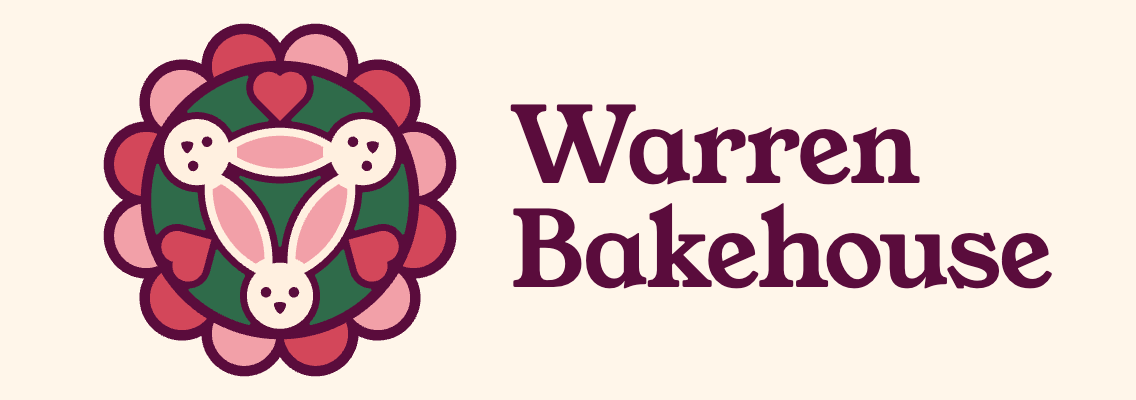
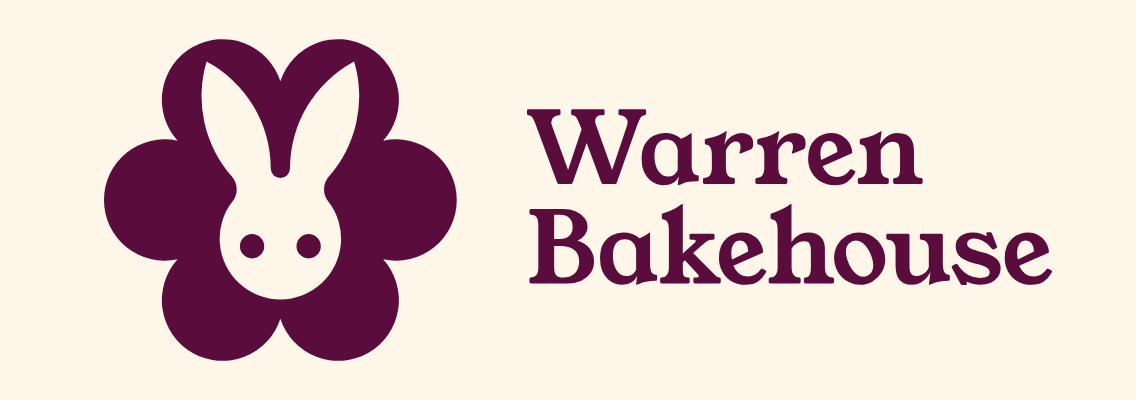
Bryce's page: Warren Bakehouse's approved mark
The rose-window emblem is replaced by the one rabbit inside the flower, logo
and mark pictures, and the direction line that described the old emblem.

Changed region(s): [[0.0924, 0.06, 0.4005, 0.96], [0.4313, 0.51, 0.9243, 0.72], [0.4313, 0.24, 0.8319, 0.48]]

diff --git a/preview/services/brand/bunny-open/index.html b/preview/services/brand/bunny-open/index.html
@@ -18,7 +18,7 @@ h2{font-size:20px;margin:0}.p{font-size:clamp(56px,8vw,112px);line-height:1;font
 @media(max-width:640px){.top{grid-template-columns:1fr}.g{grid-template-columns:1fr}.t{aspect-ratio:3/1}.bw img{height:120px}.g.pick{grid-template-columns:repeat(3,minmax(0,1fr))}.g.pick .t{aspect-ratio:1.5}.kg{grid-template-columns:repeat(2,minmax(0,1fr))}}
 .dirs{max-width:1200px;margin:64px auto 0}.dirs h2{font-size:clamp(28px,4vw,52px);letter-spacing:-.03em;margin:0 0 12px;line-height:1.05}.dirs>p{max-width:62ch;color:#b9b9c0;margin:0 0 28px}.dg{display:grid;grid-template-columns:repeat(auto-fit,minmax(min(100%,340px),1fr));gap:1px;background:#4a4a50;border:1px solid #4a4a50}.dg article{background:#131316;padding:24px;scroll-margin-top:20px}.dg h3{margin:0 0 10px;font-size:24px;letter-spacing:-.02em}.dg small{display:block;font-size:14px;font-weight:400;letter-spacing:0;color:#b9b9c0;margin-top:2px}.when{display:inline-block;border:1px solid #77777f;padding:3px 10px;font-size:13px;margin-bottom:14px}.w-first{background:#f3f0e8;color:#111}.dg dl{margin:0}.dg dt{font-size:13px;color:#a9a9b0;margin-top:12px}.dg dd{margin:2px 0 0;font-size:16px;line-height:1.4}.dirs ol{margin:0 0 32px;padding-left:22px;max-width:62ch}.dirs li{margin:6px 0}</style><link rel="stylesheet" href="kit-burritos.css?3"><script src="kit-burritos.js?3"></script><link rel="stylesheet" href="kit-longears.css?1"><script src="kit-longears.js?1"></script><link rel="stylesheet" href="kit-hopwell.css?1"><link rel="stylesheet" href="kit-cottontail.css?1"><link rel="stylesheet" href="kit-hopalong.css?1"><link rel="stylesheet" href="kit-bunnyauto.css?1"><link rel="stylesheet" href="kit-burrow.css?2"><link rel="stylesheet" href="kit-haretoday.css?1"><script src="kit-hopwell.js?1"></script><script src="kit-cottontail.js?1"></script><script src="kit-hopalong.js?1"></script><script src="kit-bunnyauto.js?1"></script><script src="kit-burrow.js?2"></script><script src="kit-haretoday.js?1"></script><section class="s"><div class="top"><div><h2>Starter</h2><div class="p">$1,200</div><p>Fixed in writing. Nothing up front.</p></div>
 <button class="bw" aria-expanded="false" aria-controls="x"><img src="mark.svg" alt="">Bunny World<span>See nine made-up brands</span></button></div>
-<div class="x" id="x"><div><div class="g"><button class="t" type="button" aria-pressed="false" data-k="bunny-auto" style="--c:#FFC000"><img alt="Bunny Auto" src="L-bunny-auto.png?2"><small>Auto repair</small></button><button class="t" type="button" aria-pressed="false" data-k="bunny-burritos" style="--c:#4F0423"><img alt="Bunny Burritos" src="L-bunny-burritos.png?2"><small>Restaurant</small></button><button class="t" type="button" aria-pressed="false" data-k="burrow-and-bough" style="--c:#dbcbfd"><img alt="Burrow &amp; Bough" src="L-burrow-and-bough.png?3"><small>Gifts</small></button><button class="t" type="button" aria-pressed="false" data-k="cottontail-farm" style="--c:#f05537"><img alt="Cottontail Farm" src="L-cottontail-farm.png?2"><small>Farm festival</small></button><button class="t" type="button" aria-pressed="false" data-k="hare-today" style="--c:#0d0d0d"><img alt="Hare Today" src="L-hare-today.png?2"><small>Barbers</small></button><button class="t" type="button" aria-pressed="false" data-k="hop-along" style="--c:#e4e6e3"><img alt="Hop Along" src="L-hop-along.png?2"><small>Brewery</small></button><button class="t" type="button" aria-pressed="false" data-k="hopwell-chiro" style="--c:#FFB02E"><img alt="Hopwell" src="L-hopwell-chiro.png?2"><small>Chiropractor</small></button><button class="t" type="button" aria-pressed="false" data-k="long-ears" style="--c:#f1efdf"><img alt="Long Ears" src="L-long-ears.png?2"><small>Landscaping</small></button><button class="t" type="button" aria-pressed="false" data-k="warren-bakehouse" style="--c:#fff6ea"><img alt="Warren Bakehouse" src="L-warren-bakehouse.png?2"><small>Bakery</small></button></div><p class="note">We made these shops up to show you. Pick one.</p><div id="k" aria-live="polite"></div></div></div></section><p style="max-width:1200px;margin:24px auto 0;color:#b9b9c0">For Bryce: click the logo, then pick a shop. Bunny Burritos is the worked example, so match that for the others. Click any of its pieces to see it bigger. Dashed boxes and anything marked placeholder still need making. The marks are placeholders too: Tristan and Bryce are redoing all nine, and the direction for each is below.</p><section class="dirs"><h2>Nine directions</h2><p>From the buyer research, November 23. These are directions to argue with, and you two draw the marks. Argue first with what you know about owners here.</p><ol><li>It has to read from across the road. That has the best evidence behind it.</li><li>It should say what the shop does, with the mark or a plain line.</li><li>Every shop gets its own colors, and no two sit close together.</li><li>One bold idea each. Skip dark brown with cream and amber, skip mountains, and use only plants that grow here.</li><li>Hand-drawn, retro, color meanings and mascots have weak evidence, so use them because you like them.</li></ol><div class="dg"><article id="d-long-ears"><h3>Long Ears<small>Landscaping</small></h3><span class="when w-first">First</span><dl><dt>Stands for</dt><dd>Owner with a few trucks adding water-wise work</dd><dt>Has to prove</dt><dd>A changing service still looks like one crew</dd><dt>Direction</dt><dd>Very broad letters seen at speed. Deep spruce, chalk and a clay-rose signal. Territory: ears as growth or direction. Only native plants, if any.</dd><dt>Has to work on</dt><dd>Truck door, shirt, yard sign</dd><dt>Avoid</dt><dd>Leaf swoosh, lawn stripes, trees, peaks, pale sage</dd><dt>Showpiece</dt><dd>The whole truck, with the mark crossing the door</dd></dl></article><article id="d-warren-bakehouse"><h3>Warren Bakehouse<small>Bakery</small></h3><span class="when w-first">First</span><dl><dt>Stands for</dt><dd>Home baker opening a first counter</dd><dt>Has to prove</dt><dd>Handmade can look sharp, and it doesn’t need brown</dd><dt>Direction</dt><dd>A rose window: three bunnies share three ears inside a twelve-lobed piecrust. Berry, rose, pink, green and cream, from Tristan’s page redesign.</dd><dt>Has to work on</dt><dd>Box tape, rubber stamp, apron, window</dd><dt>Avoid</dt><dd>Wheat, rolling pins, rustic script, brown, amber, cream</dd><dt>Showpiece</dt><dd>A one-color bag made special by a huge stamp</dd></dl></article><article id="d-hopwell-chiro"><h3>Hopwell<small>Chiropractor</small></h3><span class="when w-first">First</span><dl><dt>Stands for</dt><dd>Chiropractor adding a partner or a service</dd><dt>Has to prove</dt><dd>Care can be warm and still say what it does</dd><dt>Direction</dt><dd>A lowercase h whose stem is a spine of eight blocks, with the name drawn to match. Dark teal, mint and marigold. The animation slides the top blocks back into line.</dd><dt>Has to work on</dt><dd>Door, card, intake sheet</dd><dt>Avoid</dt><dd>A realistic spine, lotus, cure claims, thin letters, gray wellness</dd><dt>Showpiece</dt><dd>A door sign that also becomes a pattern</dd></dl></article><article id="d-hop-along"><h3>Hop Along<small>Brewery</small></h3><span class="when w-next">Next</span><dl><dt>Stands for</dt><dd>Taproom tidying a small family of cans</dd><dt>Has to prove</dt><dd>Several beers, one shelf you can’t miss</dd><dt>Direction</dt><dd>Keep the idea: one o hops to the other, and each beer finds its own way across. The Stout digs under and makes a grin, the Kölsch wears its carrot, the Hazy is ears. This is a direction, not finished art. <b>Bryce, it’s yours to redraw:</b> the letters, the bunnies and the line of the hop.</dd><dt>Has to work on</dt><dd>Can, tap handle, glass</dd><dt>Avoid</dt><dd>Hop-cone crest, beer circle, letters crossing their frame (today’s badge does)</dd><dt>Showpiece</dt><dd>Cans whose leap carries on from side to side</dd></dl></article><article id="d-bunny-burritos"><h3>Bunny Burritos<small>Restaurant</small></h3><span class="when w-underway">Underway</span><dl><dt>Stands for</dt><dd>Truck owner opening a first room</dd><dt>Has to prove</dt><dd>It can be loud and particular, and still work in one color</dd><dt>Direction</dt><dd>Tristan’s rose-eyed bunny skull is the illustration, and a plain geometric version of it is the logo. Customers see both. Wine, red and pink.</dd><dt>Has to work on</dt><dd>Foil sticker, window, menu</dd><dt>Avoid</dt><dd>Sombreros, chile clip art, a heart for a nose</dd><dt>Showpiece</dt><dd>The wrapped burrito in the hand</dd></dl></article><article id="d-bunny-auto"><h3>Bunny Auto<small>Auto repair</small></h3><span class="when w-later">Later</span><dl><dt>Stands for</dt><dd>Second owner of a trusted garage</dd><dt>Has to prove</dt><dd>A plain shop can look straight and established</dd><dt>Direction</dt><dd>A V-twin engine on one pin: the two cylinders are the ears. The name is built from the engine’s parts, so the N is a piston and the O is the crank. Yellow and black only.</dd><dt>Has to work on</dt><dd>Bay door, key tag, invoice</dd><dt>Avoid</dt><dd>Wrench crests, flames, checkerboards, thin letters</dd><dt>Showpiece</dt><dd>The bay door, read from across the road</dd></dl></article><article id="d-burrow-and-bough"><h3>Burrow &amp; Bough<small>Gifts</small></h3><span class="when w-later">Later</span><dl><dt>Stands for</dt><dd>Shopkeeper adding their own goods</dd><dt>Has to prove</dt><dd>A bag makes a small gift feel chosen</dd><dt>Direction</dt><dd>A lettermark by Tristan: a B with the &amp; inside it. The B is the box, the &amp; is the ribbon, and it’s all one line. Two circles, one angle, one gap. Lilac and ink violet.</dd><dt>Has to work on</dt><dd>Window vinyl, tag, tissue, stamp</dd><dt>Avoid</dt><dd>Botanical wreaths, dainty script, leafy circle</dd><dt>Showpiece</dt><dd>Wrapping paper made from one cut shape</dd></dl></article><article id="d-cottontail-farm"><h3>Cottontail Farm<small>Farm festival</small></h3><span class="when w-later">Later</span><dl><dt>Stands for</dt><dd>Farm family planning a festival before spring</dd><dt>Has to prove</dt><dd>There’s still a reason to come if one crop fails</dd><dt>Direction</dt><dd>Fat swash letters, and the l runs back under the word into a round tail. Pumpkin, cotton white and soil black. The short version is a c with the tail behind it.</dd><dt>Has to work on</dt><dd>Road banner, ticket, wristband</dd><dt>Avoid</dt><dd>Barn badge, smiling pumpkin, plaid, non-native flowers</dd><dt>Showpiece</dt><dd>The road sign families stand beside for a photo</dd></dl></article><article id="d-hare-today"><h3>Hare Today<small>Barbers</small></h3><span class="when w-later">Later</span><dl><dt>Stands for</dt><dd>Barber moving, or opening a second shop</dd><dt>Has to prove</dt><dd>A strong shop survives a second address</dd><dt>Direction</dt><dd>The scissor ears, kept and redrawn: the blades are the ears, the rings are the cheeks and the red pivot is the nose. Tight, tall letters in the same font. Red, black and white.</dd><dt>Has to work on</dt><dd>Window, cape, pole, phone icon</dd><dt>Avoid</dt><dd>Crossed razors, mustaches, vintage filigree</dd><dt>Showpiece</dt><dd>The cape, readable in the mirror</dd></dl></article></div></section>
+<div class="x" id="x"><div><div class="g"><button class="t" type="button" aria-pressed="false" data-k="bunny-auto" style="--c:#FFC000"><img alt="Bunny Auto" src="L-bunny-auto.png?2"><small>Auto repair</small></button><button class="t" type="button" aria-pressed="false" data-k="bunny-burritos" style="--c:#4F0423"><img alt="Bunny Burritos" src="L-bunny-burritos.png?2"><small>Restaurant</small></button><button class="t" type="button" aria-pressed="false" data-k="burrow-and-bough" style="--c:#dbcbfd"><img alt="Burrow &amp; Bough" src="L-burrow-and-bough.png?3"><small>Gifts</small></button><button class="t" type="button" aria-pressed="false" data-k="cottontail-farm" style="--c:#f05537"><img alt="Cottontail Farm" src="L-cottontail-farm.png?2"><small>Farm festival</small></button><button class="t" type="button" aria-pressed="false" data-k="hare-today" style="--c:#0d0d0d"><img alt="Hare Today" src="L-hare-today.png?2"><small>Barbers</small></button><button class="t" type="button" aria-pressed="false" data-k="hop-along" style="--c:#e4e6e3"><img alt="Hop Along" src="L-hop-along.png?2"><small>Brewery</small></button><button class="t" type="button" aria-pressed="false" data-k="hopwell-chiro" style="--c:#FFB02E"><img alt="Hopwell" src="L-hopwell-chiro.png?2"><small>Chiropractor</small></button><button class="t" type="button" aria-pressed="false" data-k="long-ears" style="--c:#f1efdf"><img alt="Long Ears" src="L-long-ears.png?2"><small>Landscaping</small></button><button class="t" type="button" aria-pressed="false" data-k="warren-bakehouse" style="--c:#fff6ea"><img alt="Warren Bakehouse" src="L-warren-bakehouse.png?4"><small>Bakery</small></button></div><p class="note">We made these shops up to show you. Pick one.</p><div id="k" aria-live="polite"></div></div></div></section><p style="max-width:1200px;margin:24px auto 0;color:#b9b9c0">For Bryce: click the logo, then pick a shop. Bunny Burritos is the worked example, so match that for the others. Click any of its pieces to see it bigger. Dashed boxes and anything marked placeholder still need making. The marks are placeholders too: Tristan and Bryce are redoing all nine, and the direction for each is below.</p><section class="dirs"><h2>Nine directions</h2><p>From the buyer research, November 23. These are directions to argue with, and you two draw the marks. Argue first with what you know about owners here.</p><ol><li>It has to read from across the road. That has the best evidence behind it.</li><li>It should say what the shop does, with the mark or a plain line.</li><li>Every shop gets its own colors, and no two sit close together.</li><li>One bold idea each. Skip dark brown with cream and amber, skip mountains, and use only plants that grow here.</li><li>Hand-drawn, retro, color meanings and mascots have weak evidence, so use them because you like them.</li></ol><div class="dg"><article id="d-long-ears"><h3>Long Ears<small>Landscaping</small></h3><span class="when w-first">First</span><dl><dt>Stands for</dt><dd>Owner with a few trucks adding water-wise work</dd><dt>Has to prove</dt><dd>A changing service still looks like one crew</dd><dt>Direction</dt><dd>Very broad letters seen at speed. Deep spruce, chalk and a clay-rose signal. Territory: ears as growth or direction. Only native plants, if any.</dd><dt>Has to work on</dt><dd>Truck door, shirt, yard sign</dd><dt>Avoid</dt><dd>Leaf swoosh, lawn stripes, trees, peaks, pale sage</dd><dt>Showpiece</dt><dd>The whole truck, with the mark crossing the door</dd></dl></article><article id="d-warren-bakehouse"><h3>Warren Bakehouse<small>Bakery</small></h3><span class="when w-first">First</span><dl><dt>Stands for</dt><dd>Home baker opening a first counter</dd><dt>Has to prove</dt><dd>Handmade can look sharp, and it doesn’t need brown</dd><dt>Direction</dt><dd>One rabbit inside a six-petal flower: the petals and the head are the same circle, and the ears reach up into two petals. Berry, rose, pink, green and cream, from Tristan’s page redesign.</dd><dt>Has to work on</dt><dd>Box tape, rubber stamp, apron, window</dd><dt>Avoid</dt><dd>Wheat, rolling pins, rustic script, brown, amber, cream</dd><dt>Showpiece</dt><dd>A one-color bag made special by a huge stamp</dd></dl></article><article id="d-hopwell-chiro"><h3>Hopwell<small>Chiropractor</small></h3><span class="when w-first">First</span><dl><dt>Stands for</dt><dd>Chiropractor adding a partner or a service</dd><dt>Has to prove</dt><dd>Care can be warm and still say what it does</dd><dt>Direction</dt><dd>A lowercase h whose stem is a spine of eight blocks, with the name drawn to match. Dark teal, mint and marigold. The animation slides the top blocks back into line.</dd><dt>Has to work on</dt><dd>Door, card, intake sheet</dd><dt>Avoid</dt><dd>A realistic spine, lotus, cure claims, thin letters, gray wellness</dd><dt>Showpiece</dt><dd>A door sign that also becomes a pattern</dd></dl></article><article id="d-hop-along"><h3>Hop Along<small>Brewery</small></h3><span class="when w-next">Next</span><dl><dt>Stands for</dt><dd>Taproom tidying a small family of cans</dd><dt>Has to prove</dt><dd>Several beers, one shelf you can’t miss</dd><dt>Direction</dt><dd>Keep the idea: one o hops to the other, and each beer finds its own way across. The Stout digs under and makes a grin, the Kölsch wears its carrot, the Hazy is ears. This is a direction, not finished art. <b>Bryce, it’s yours to redraw:</b> the letters, the bunnies and the line of the hop.</dd><dt>Has to work on</dt><dd>Can, tap handle, glass</dd><dt>Avoid</dt><dd>Hop-cone crest, beer circle, letters crossing their frame (today’s badge does)</dd><dt>Showpiece</dt><dd>Cans whose leap carries on from side to side</dd></dl></article><article id="d-bunny-burritos"><h3>Bunny Burritos<small>Restaurant</small></h3><span class="when w-underway">Underway</span><dl><dt>Stands for</dt><dd>Truck owner opening a first room</dd><dt>Has to prove</dt><dd>It can be loud and particular, and still work in one color</dd><dt>Direction</dt><dd>Tristan’s rose-eyed bunny skull is the illustration, and a plain geometric version of it is the logo. Customers see both. Wine, red and pink.</dd><dt>Has to work on</dt><dd>Foil sticker, window, menu</dd><dt>Avoid</dt><dd>Sombreros, chile clip art, a heart for a nose</dd><dt>Showpiece</dt><dd>The wrapped burrito in the hand</dd></dl></article><article id="d-bunny-auto"><h3>Bunny Auto<small>Auto repair</small></h3><span class="when w-later">Later</span><dl><dt>Stands for</dt><dd>Second owner of a trusted garage</dd><dt>Has to prove</dt><dd>A plain shop can look straight and established</dd><dt>Direction</dt><dd>A V-twin engine on one pin: the two cylinders are the ears. The name is built from the engine’s parts, so the N is a piston and the O is the crank. Yellow and black only.</dd><dt>Has to work on</dt><dd>Bay door, key tag, invoice</dd><dt>Avoid</dt><dd>Wrench crests, flames, checkerboards, thin letters</dd><dt>Showpiece</dt><dd>The bay door, read from across the road</dd></dl></article><article id="d-burrow-and-bough"><h3>Burrow &amp; Bough<small>Gifts</small></h3><span class="when w-later">Later</span><dl><dt>Stands for</dt><dd>Shopkeeper adding their own goods</dd><dt>Has to prove</dt><dd>A bag makes a small gift feel chosen</dd><dt>Direction</dt><dd>A lettermark by Tristan: a B with the &amp; inside it. The B is the box, the &amp; is the ribbon, and it’s all one line. Two circles, one angle, one gap. Lilac and ink violet.</dd><dt>Has to work on</dt><dd>Window vinyl, tag, tissue, stamp</dd><dt>Avoid</dt><dd>Botanical wreaths, dainty script, leafy circle</dd><dt>Showpiece</dt><dd>Wrapping paper made from one cut shape</dd></dl></article><article id="d-cottontail-farm"><h3>Cottontail Farm<small>Farm festival</small></h3><span class="when w-later">Later</span><dl><dt>Stands for</dt><dd>Farm family planning a festival before spring</dd><dt>Has to prove</dt><dd>There’s still a reason to come if one crop fails</dd><dt>Direction</dt><dd>Fat swash letters, and the l runs back under the word into a round tail. Pumpkin, cotton white and soil black. The short version is a c with the tail behind it.</dd><dt>Has to work on</dt><dd>Road banner, ticket, wristband</dd><dt>Avoid</dt><dd>Barn badge, smiling pumpkin, plaid, non-native flowers</dd><dt>Showpiece</dt><dd>The road sign families stand beside for a photo</dd></dl></article><article id="d-hare-today"><h3>Hare Today<small>Barbers</small></h3><span class="when w-later">Later</span><dl><dt>Stands for</dt><dd>Barber moving, or opening a second shop</dd><dt>Has to prove</dt><dd>A strong shop survives a second address</dd><dt>Direction</dt><dd>The scissor ears, kept and redrawn: the blades are the ears, the rings are the cheeks and the red pivot is the nose. Tight, tall letters in the same font. Red, black and white.</dd><dt>Has to work on</dt><dd>Window, cape, pole, phone icon</dd><dt>Avoid</dt><dd>Crossed razors, mustaches, vintage filigree</dd><dt>Showpiece</dt><dd>The cape, readable in the mirror</dd></dl></article></div></section>
 <script>const b=document.querySelector('.bw'),x=document.getElementById('x'),ts=[...document.querySelectorAll('.t')],still=matchMedia('(prefers-reduced-motion: reduce)').matches;
 b.onclick=()=>{const o=b.getAttribute('aria-expanded')!=='true';b.setAttribute('aria-expanded',o);b.querySelector('span').textContent=o?'Close':'See nine made-up brands';
 ts.forEach(t=>t.getAnimations().forEach(a=>a.cancel()));x.classList.toggle('o',o);if(still)return;
@@ -29,7 +29,7 @@ if(o)t.animate([{transform:d,opacity:0},{opacity:1,offset:.3},{transform:'none',
 x.firstElementChild.style.overflow=o?'visible':'hidden';
 if(o)setTimeout(()=>{if(x.classList.contains('o'))x.scrollIntoView({behavior:'smooth',block:'nearest'})},450)};const K={"bunny-auto": ["Bunny Auto", ["#000000", "#FFC000", "#FFFFFF"], "Barlow Condensed", "Barlow"], "bunny-burritos": ["Bunny Burritos", ["#4F0423", "#E10600", "#FFC7C6"], "Anton", "Work Sans"], "burrow-and-bough": ["Burrow & Bough", ["#DBCBFD", "#220A33", "#9E39E5"], "Newsreader", "Instrument Sans"], "cottontail-farm": ["Cottontail Farm", ["#F05537", "#161719", "#F5F5F0"], "Hanken Grotesk", "IBM Plex Mono"], "hare-today": ["Hare Today", ["#0D0D0D", "#BF1B17", "#F4F3F0"], "Big Shoulders Display", "Inter"], "hop-along": ["Hop Along", ["#ACD084", "#2B3D73", "#FEF7E6"], "Fraunces", "Archivo"], "hopwell-chiro": ["Hopwell", ["#D7D7CB", "#192830", "#CDD3BB"], "Albert Sans", "Figtree"], "long-ears": ["Long Ears", ["#F1EFDF", "#07503F", "#B2CEE7"], "Bricolage Grotesque", "Hanken Grotesk"], "warren-bakehouse": ["Warren Bakehouse", ["#FFF6EA", "#5A0C3C", "#D3475A", "#F2A0A8", "#2F6B4A"], "Young Serif", "Inclusive Sans"]},k=document.getElementById('k'),g=document.querySelector('.g'),M=['warren-bakehouse','bunny-burritos','hare-today','hop-along'];
 const dark=h=>{const n=parseInt(h.slice(1),16);return (n>>16)*.3+(n>>8&255)*.59+(n&255)*.11<140};
-ts.forEach(t=>t.onclick=()=>{const id=t.dataset.k,[n,cs,h,f]=K[id],c=t.style.getPropertyValue('--c'),L=`<img src="L-${id}.png?3" alt="${n} logo">`,m=M.includes(id)?`<img src="M-${id}.png" alt="">`:'';
+ts.forEach(t=>t.onclick=()=>{const id=t.dataset.k,[n,cs,h,f]=K[id],c=t.style.getPropertyValue('--c'),L=`<img src="L-${id}.png?4" alt="${n} logo">`,m=M.includes(id)?`<img src="M-${id}.png?2" alt="">`:'';
 const F=(k,i)=>`<div class="f ${k}" style="--c:${c}">${i||L}</div>`,N=k=>`<div class="f no ${k}">to draw</div>`,C=(l,a,w)=>`<div class="c ${w||''}"><div class="a" style="${l=='Your colors'&&!real?'padding:0':''}">${a}</div><b>${l}${!real&&!/to draw|to write|sw"|aa"/.test(a)?'<span class=tag>placeholder, needs designing</span>':''}</b></div>`;
 const was=ts.map(x=>x.getBoundingClientRect());ts.forEach(x=>{x.getAnimations().forEach(a=>a.cancel());x.setAttribute('aria-pressed',x===t)});g.classList.add('pick');
 if(!still)ts.forEach((x,i)=>{const r=x.getBoundingClientRect(),o=was[i];x.animate([{transformOrigin:'0 0',transform:`translate(${o.left-r.left}px,${o.top-r.top}px) scale(${o.width/r.width},${o.height/r.height})`},{transformOrigin:'0 0',transform:'none'}],{duration:500,easing:'cubic-bezier(.2,.8,.2,1)'})});
